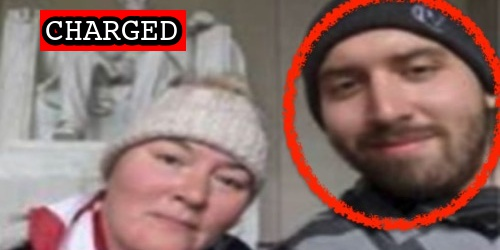
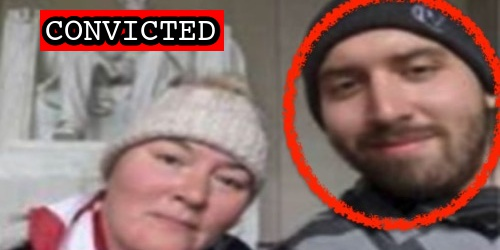
Latest schedule plus new convictions

Changed region(s): [[0.12, 0.028, 0.45, 0.224]]

diff --git a/docs/_suspects/bruno-cua.md b/docs/_suspects/bruno-cua.md
@@ -4,20 +4,20 @@ lastName: Cua
 hashtag: BrunoCua
 aka:
 residence: Georgia
-status: Indicted
+status: Convicted
 date: 2021-02-05
 charged: 2021-02-05
 indicted: 2021-02-10
-convicted:
+convicted: 2023-02-24
 acquitted:
 sentenced:
 dismissed:
 deceased:
 plea_hearing:
 trial_date: 2023-02-13
-trial_type: Jury Trial
+trial_type: Stipulated Bench Trial
 jury_selection:
-sentencing:
+sentencing: 2023-05-12
 status_conference:
 age: 18
 occupation:
@@ -32,7 +32,7 @@ raid:
 perpwalk:
 quote: "They can steal an election, but we can’t sit in their chairs?"
 title: Bruno Cua arrested on February 5, 2021
-description: Click for latest case details. Suspects innocent until proven guilty.
+description: Convicted on February 24, 2023. Click for latest case details.
 author: seditiontrack
 layout: suspect
 published: true
@@ -40,11 +40,20 @@ caseNumber: 21-cr-0107
 caseName: USA v. CUA
 judge: Randolph D. Moss
 videos:
-- title: Detention Ex 4 Cua.mp4 (0:00:41)
-  url: https://propublica-data-j6cases-videos.s3.us-east-1.amazonaws.com/6ea58310ce2a013960702cde48001122.mp4
+  - title: Detention Ex 4 Cua.mp4 (0:00:41)
+    url: https://propublica-data-j6cases-videos.s3.us-east-1.amazonaws.com/6ea58310ce2a013960702cde48001122.mp4
 charges:
+  - code: 18 USC § 1512(c)(2),2
+    title: Obstruction of an Official Proceeding (Aiding and Abetting)
+    url: https://www.law.cornell.edu/uscode/text/18/1512
+    felony: true
+  - code: 18 USC § 111(a)(1)
+    title: Assaulting, resisting, or impeding certain officers or employees
+    url: https://www.law.cornell.edu/uscode/text/18/111
+    felony: true
 sentence:
 ---
+
 - [News Report](https://www.ajc.com/news/metro-atlanta-teen-charged-in-us-capitol-attack/U7EPRZANXVBFPB7KRW7EQ3VRIE/)
 - [FBI Statement (Twitter)](https://twitter.com/FBIAtlanta/status/1358082973623533571?s=20)
 - [Statement of Facts](https://www.justice.gov/usao-dc/case-multi-defendant/file/1365571/download)

diff --git a/docs/_suspects/luke-lints.md b/docs/_suspects/luke-lints.md
@@ -4,20 +4,20 @@ lastName: Lints
 hashtag: BlackGreyFlannel
 aka:
 residence: Michigan
-status: Charged
+status: Convicted
 date: 2022-06-24
 charged: 2022-06-24
 indicted:
-convicted:
+convicted: 2023-01-27
 acquitted:
 sentenced:
 dismissed:
 deceased:
-plea_hearing: 2023-02-24
+plea_hearing: 2023-01-27
 trial_date:
 trial_type:
 jury_selection: 2023-06-05
-sentencing:
+sentencing: 2023-05-26
 status_conference:
 age: 27
 occupation:
@@ -32,7 +32,7 @@ raid:
 perpwalk:
 quote:
 title: Luke Lints charged on June 24th, 2022
-description: Click for latest case details. Suspects innocent until proven guilty.
+description: Convicted on January 27, 2023. Click for latest case details.
 author: seditiontrack
 layout: suspect
 published: true
@@ -41,8 +41,15 @@ caseName: USA v. LINTS
 judge: Trevor N. McFadden
 videos:
 charges:
+  - code: 18 USC § 231(a)(3)
+    title: Obstruction of Law Enforcement During Civil Disorder
+    url: https://www.law.cornell.edu/uscode/text/18/231
+    felony: true
 sentence:
 ---
+
 - [News Report](https://www.9and10news.com/2022/06/30/traverse-city-man-arrested-on-felony-misdemeanor-charges-for-jan-6-actions/)
 - [Complaint](https://www.justice.gov/usao-dc/case-multi-defendant/file/1516826/download)
 - [Statement of Facts](https://www.justice.gov/usao-dc/case-multi-defendant/file/1516831/download)
+- [Plea Agreement](https://storage.courtlistener.com/recap/gov.uscourts.dcd.245741/gov.uscourts.dcd.245741.37.0_1.pdf)
+- [Statement of Offense](https://storage.courtlistener.com/recap/gov.uscourts.dcd.245741/gov.uscourts.dcd.245741.38.0_1.pdf)

diff --git a/docs/_suspects/barry-ramey.md b/docs/_suspects/barry-ramey.md
@@ -14,7 +14,7 @@ sentenced:
 dismissed:
 deceased:
 plea_hearing:
-trial_date: 2023-02-23
+trial_date: 2023-03-03
 trial_type: Stipulated Bench Trial
 jury_selection:
 sentencing:
@@ -43,7 +43,6 @@ videos:
 charges:
 sentence:
 ---
-
 - [News Report](https://www.nbcnews.com/politics/justice-department/fbi-says-proud-boy-tried-derail-jan-6-investigating-menacing-agent-rcna25418)
 - [Statement of Facts](https://www.justice.gov/usao-dc/case-multi-defendant/file/1496006/download)
 - [Indictment](https://storage.courtlistener.com/recap/gov.uscourts.dcd.243752/gov.uscourts.dcd.243752.6.0.pdf)

diff --git a/docs/_suspects/tyler-bensch.md b/docs/_suspects/tyler-bensch.md
@@ -18,7 +18,7 @@ trial_date:
 trial_type:
 jury_selection:
 sentencing:
-status_conference: 2023-02-24
+status_conference: 2023-03-23
 age: 20
 occupation:
 affiliations: B Squad Militia, Three Percenters

diff --git a/docs/_suspects/christopher-warnagiris.md b/docs/_suspects/christopher-warnagiris.md
@@ -18,7 +18,7 @@ trial_date:
 trial_type:
 jury_selection:
 sentencing:
-status_conference:
+status_conference: 2023-05-01
 age: 40
 occupation: Active Duty U.S. Marine Corps Officer
 affiliations:

diff --git a/docs/_suspects/ralph-celentano.md b/docs/_suspects/ralph-celentano.md
@@ -18,7 +18,7 @@ trial_date: 2023-03-20
 trial_type: Jury Trial
 jury_selection: 2023-03-20
 sentencing:
-status_conference: 2023-02-24
+status_conference:
 age: 54
 occupation:
 affiliations:

diff --git a/docs/_suspects/dylan-cronin.md b/docs/_suspects/dylan-cronin.md
@@ -17,7 +17,7 @@ plea_hearing: 2023-02-24
 trial_date:
 trial_type:
 jury_selection:
-sentencing: 2023-05-11
+sentencing: 2023-06-23
 status_conference:
 age:
 occupation: US Army Reserves

diff --git a/docs/_suspects/james-brett.md b/docs/_suspects/james-brett.md
@@ -18,7 +18,7 @@ trial_date:
 trial_type:
 jury_selection:
 sentencing:
-status_conference:
+status_conference: 2023-03-26
 age:
 occupation:
 affiliations: Proud Boys, Former USMC

diff --git a/docs/_suspects/kevin-cronin.md b/docs/_suspects/kevin-cronin.md
@@ -17,7 +17,7 @@ plea_hearing: 2023-02-24
 trial_date:
 trial_type:
 jury_selection:
-sentencing: 2023-05-11
+sentencing: 2023-06-23
 status_conference:
 age:
 occupation:

diff --git a/docs/_suspects/brittany-robinson.md b/docs/_suspects/brittany-robinson.md
@@ -18,7 +18,7 @@ trial_date:
 trial_type:
 jury_selection:
 sentencing:
-status_conference: 2023-02-24
+status_conference: 2023-03-21
 age: 29
 occupation:
 affiliations:

diff --git a/docs/_suspects/benjamin-robinson.md b/docs/_suspects/benjamin-robinson.md
@@ -18,7 +18,7 @@ trial_date:
 trial_type:
 jury_selection:
 sentencing:
-status_conference: 2023-02-24
+status_conference: 2023-03-21
 age:
 occupation:
 affiliations:

diff --git a/docs/_suspects/samuel-camargo.md b/docs/_suspects/samuel-camargo.md
@@ -18,7 +18,7 @@ trial_date:
 trial_type:
 jury_selection:
 sentencing:
-status_conference:
+status_conference: 2023-04-13
 age:
 occupation:
 affiliations:
